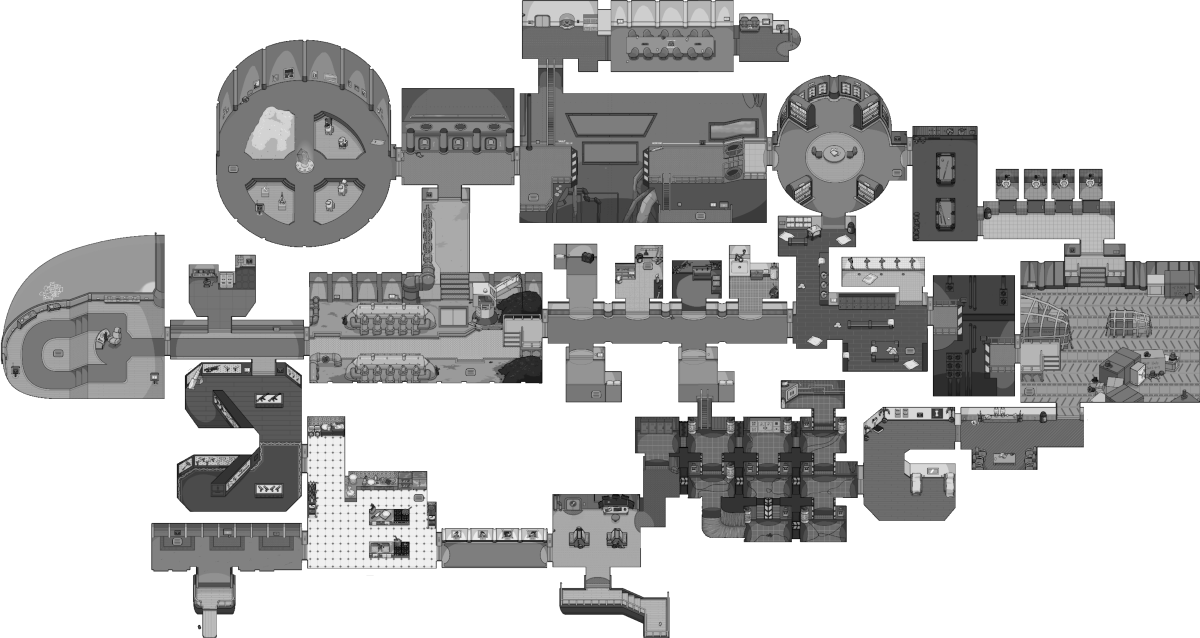
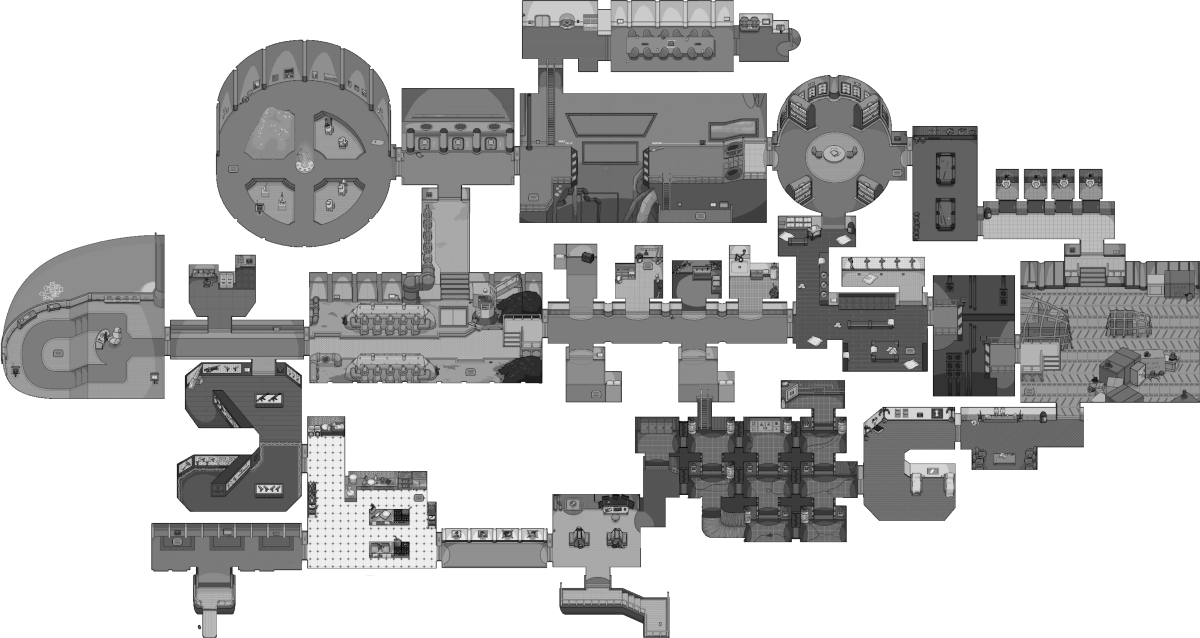
Electrical Door

diff --git a/AmongUsReplayInWindow/Map.cs b/AmongUsReplayInWindow/Map.cs
@@ -12,6 +12,8 @@ namespace AmongUsReplayInWindow
     {
         static string[] mapFilename = new string[5] { "skeld.png", "mira.png", "polus.png", "skeld.png", "airship.png" };
         static public string mapFolder = "color";
+        static Image CloseDoor_h;
+        static Image CloseDoor_v;
         public struct MapScale
         {
             public int Id;
@@ -132,6 +134,36 @@ namespace AmongUsReplayInWindow
             return MapImage;
         }
 
+        static public float[] electricalDoorsPos_xy = new float[2] { 1200, 638 };
+        static public Vector2[] electricalDoorsPos = new Vector2[12] { new Vector2(811, 497), new Vector2(756, 497), new Vector2(811, 453), new Vector2(756, 453),
+                                                                       new Vector2(700, 453), new Vector2(734, 467), new Vector2(791, 467), new Vector2(791, 420),
+                                                                       new Vector2(734, 420), new Vector2(791, 511), new Vector2(678, 420), new Vector2(679, 467), };
+        static public Image[] setDoorImages(int mapId)
+        {
+            if (mapId != 4) return null;
+            string hPath = Program.exeFolder + "\\map\\" + mapFolder + "\\CloseDoor_h.png";
+            string vPath = Program.exeFolder + "\\map\\" + mapFolder + "\\CloseDoor_v.png";
+            if (File.Exists(hPath) && File.Exists(vPath))
+            {
+                Image[] MapImage = new Image[2];
+                try
+                {
+                    using (FileStream stream = File.OpenRead(hPath))
+                        MapImage[0] = Image.FromStream(stream, false, false);
+                    using (FileStream stream = File.OpenRead(vPath))
+                        MapImage[1] = Image.FromStream(stream, false, false);
+                    return MapImage;
+                }
+                catch (Exception e)
+                {
+                    MapImage[0]?.Dispose();
+                    MapImage[1]?.Dispose();
+                    Console.WriteLine(e.Message);
+                    Console.WriteLine(e.StackTrace);
+                }
+            }
+            return null;
+        }
         public class backgroundMap
         {
             static List<backgroundMap> instanceList = new List<backgroundMap>();
@@ -145,10 +177,12 @@ namespace AmongUsReplayInWindow
             Point location;
             Size size;
             bool IsOverlay;
+            uint electricalDoors;
+            Image[] DoorImages = null;
 
             const int SRCCOPY = 0x00CC0020;
 
-            public backgroundMap(Size formClientSize, Point location, Size size, int mapId, bool IsOverlay)
+            public backgroundMap(Size formClientSize, Point location, Size size, int mapId, bool IsOverlay, uint electricalDoors)
             {
                 this.IsOverlay = IsOverlay;
                 instanceList.Add(this);
@@ -156,7 +190,9 @@ namespace AmongUsReplayInWindow
                 this.formClientSize = formClientSize;
                 this.location = location;
                 this.size = size;
+                this.electricalDoors = electricalDoors;
                 MapImage = setMapImage(mapId);
+                DoorImages = setDoorImages(mapId);
                 ChangeSize(formClientSize, location, size);
             }
 
@@ -171,17 +207,29 @@ namespace AmongUsReplayInWindow
                     instanceList.Remove(this);
                 DisposeBitmap();
                 MapImage?.Dispose();
-            }
-            
-            public void ChangeMapId(int mapId, Size formClientSize, Point location, Size size)
-            {
-                if (this.mapId != mapId)
+                if (DoorImages != null)
                 {
-                    this.mapId = mapId;
-                    MapImage?.Dispose();
-                    MapImage = setMapImage(mapId);
-                    ChangeSize(formClientSize, location, size);
+                    DoorImages[0]?.Dispose();
+                    DoorImages[1]?.Dispose();
                 }
+            }
+
+            public bool ChangeMapId(int mapId, Size formClientSize, Point location, Size size, uint electricalDoors)
+            {
+                if (this.mapId == mapId && (mapId != 4 || this.electricalDoors == electricalDoors)) return false;
+                this.electricalDoors = electricalDoors;
+                this.mapId = mapId;
+                MapImage?.Dispose();
+                MapImage = setMapImage(mapId);
+                if (DoorImages != null)
+                {
+                    DoorImages[0]?.Dispose();
+                    DoorImages[1]?.Dispose();
+                    DoorImages = null;
+                }
+                DoorImages = setDoorImages(mapId);
+                ChangeSize(formClientSize, location, size);
+                return true;
             }
 
             public void DisposeBitmap()
@@ -243,6 +291,31 @@ namespace AmongUsReplayInWindow
                         mapGraphics.FillRectangle(brush, 0, 0, w, h);
                 }
                 mapGraphics.DrawImage(MapImage, location.X, location.Y, size.Width, size.Height);
+                if (mapId == 4 && electricalDoors != 0 && DoorImages != null) 
+                {
+                    for(int i = 0; i < 5; i++)
+                    {
+                        if (((electricalDoors >> i) & 1) != 0)
+                        {
+                            var xpos = location.X + Map.electricalDoorsPos[i].X * size.Width / Map.electricalDoorsPos_xy[0];
+                            var ypos = location.Y + Map.electricalDoorsPos[i].Y * size.Height / Map.electricalDoorsPos_xy[1];
+                            var xsize = DoorImages[0].Width * size.Width / Map.electricalDoorsPos_xy[0];
+                            var ysize = DoorImages[0].Height * size.Height / Map.electricalDoorsPos_xy[1];
+                            mapGraphics.DrawImage(DoorImages[0], xpos, ypos, xsize, ysize);
+                        }
+                    }
+                    for (int i = 5; i < 12; i++)
+                    {
+                        if (((electricalDoors >> i) & 1) != 0) 
+                        {
+                            var xpos = location.X + Map.electricalDoorsPos[i].X * size.Width / Map.electricalDoorsPos_xy[0];
+                            var ypos = location.Y + Map.electricalDoorsPos[i].Y * size.Height / Map.electricalDoorsPos_xy[1];
+                            var xsize = DoorImages[1].Width * size.Width / Map.electricalDoorsPos_xy[0];
+                            var ysize = DoorImages[1].Height * size.Height / Map.electricalDoorsPos_xy[1];
+                            mapGraphics.DrawImage(DoorImages[1], xpos, ypos, xsize, ysize);
+                        }
+                    }
+                }
                 mapGraphics.SmoothingMode = smoothing;
                 mapGraphics.InterpolationMode = interpolation;
                 mapGraphics.Dispose();
@@ -256,6 +329,13 @@ namespace AmongUsReplayInWindow
                 {
                     bgmap.MapImage?.Dispose();
                     bgmap.MapImage = setMapImage(bgmap.mapId);
+                    if (bgmap.DoorImages != null)
+                    {
+                        bgmap.DoorImages[0]?.Dispose();
+                        bgmap.DoorImages[1]?.Dispose();
+                        bgmap.DoorImages = null;
+                    }
+                    bgmap.DoorImages = setDoorImages(bgmap.mapId);
                     bgmap.ChangeSize(bgmap.formClientSize, bgmap.location, bgmap.size);
                 }
             }

diff --git a/AmongUsReplayInWindow/OverlayWindow.cs b/AmongUsReplayInWindow/OverlayWindow.cs
@@ -42,6 +42,7 @@ namespace AmongUsReplayInWindow
 
         Map.backgroundMap backgroundMap;
         public int mapId = 0;
+        uint electricalDoors = 0;
 
         public Point mapLocation;
         public Size mapSize;
@@ -121,7 +122,7 @@ namespace AmongUsReplayInWindow
             Paint += new PaintEventHandler(Draw);
             FormClosing += new FormClosingEventHandler(overlay_FormClosing);
             trackwin = new TrackBarWin(this);
-            backgroundMap = new Map.backgroundMap(ClientSize, mapLocation, mapSize, mapId, true);
+            backgroundMap = new Map.backgroundMap(ClientSize, mapLocation, mapSize, mapId, true, electricalDoors);
             drawTimer = new System.Windows.Forms.Timer();
             drawTimer.Interval = startWindow.interval;
             drawTimer.Tick += new EventHandler(DrawTimerHandler);
@@ -186,6 +187,7 @@ namespace AmongUsReplayInWindow
                     return false;
                 }
                 version = logReader.version;
+                electricalDoors = logReader.startArgs.electricalDoors;
                 MapChange((int)logReader.startArgs.PlayMap);
                 discFrames = logReader.discFrames;
                 deadList = logReader.deadList;
@@ -241,6 +243,7 @@ namespace AmongUsReplayInWindow
             Console.WriteLine("game start");
             Playing = true;
             discussionTime = -1000;
+            electricalDoors = startArgs.electricalDoors;
             MapChange((int)startArgs.PlayMap);
             Invoke(new voidDelegate(removeReader));
             writer?.Close();
@@ -392,13 +395,13 @@ namespace AmongUsReplayInWindow
 
         public void MapChange(int newMapId)
         {
-            if (mapId == newMapId) return;
+            if (mapId == newMapId && mapId != 4) return;
             Invoke(new void_intDelegate(delegateMapChange), newMapId);
         }
 
         private void delegateMapChange(int newMapId)
         {
-            if (mapId == newMapId) return;
+            if (mapId == newMapId && mapId != 4) return;
             mapId = newMapId;
             float h = Height * (1 - Map.Maps[mapId].ypad);
             float w = Width * (1 - Map.Maps[mapId].xpad);
@@ -413,8 +416,8 @@ namespace AmongUsReplayInWindow
             }
             mapLocation = new Point((int)((Width - w) * 0.5), (int)((Height - h) * 0.5));
             mapSize = new Size((int)w, (int)h);
-            backgroundMap.ChangeMapId(mapId, ClientSize, mapLocation, mapSize);
-            Invalidate();
+            if (backgroundMap.ChangeMapId(mapId, ClientSize, mapLocation, mapSize, electricalDoors))
+                Invalidate();
         }
         private void Draw(object sender, PaintEventArgs paint)
         {

diff --git a/AmongUsReplayInWindow/amonguscapture/Memory/GameMemReader.cs b/AmongUsReplayInWindow/amonguscapture/Memory/GameMemReader.cs
@@ -1147,6 +1147,11 @@ namespace AmongUsCapture
                             LobbyCode = split[1];
                             Console.WriteLine("Code:" + LobbyCode);
                             shouldReadLobby = false;
+                            if (ReadSpace.ExistReadSpace)
+                            {
+                                uint oldDoor;
+                                ReadSpace.getElectricalDoors(out oldDoor);
+                            }
                         }
                     }
 
@@ -1269,6 +1274,8 @@ namespace AmongUsCapture
             uint[] HatIds = new uint[PlayerData.MaxPlayerNum];
             uint[] PetIds = new uint[PlayerData.MaxPlayerNum];
             uint[] SkinIds = new uint[PlayerData.MaxPlayerNum];
+            uint electricalDoors = 0;
+            bool doorOk = false;
 
             while (!dataCompleted)
             {
@@ -1361,6 +1368,16 @@ namespace AmongUsCapture
                 if (ReadSpace.ExistReadSpace)
                 {
                     ReadSpace.getReadSpace(ref Reporter, ref ReportTarget, ref CameraOn, in IdList);
+                    if (playMap == PlayerData.PlayMap.AirShip)
+                    {
+                        int count = 0;
+                        while (!ReadSpace.getElectricalDoors(out electricalDoors) && count < 300 && !doorOk)
+                        {
+                            count++;
+                            Thread.Sleep(100);
+                        }
+                        doorOk = true;
+                    }
                 }
                 if (!dataCompleted)
                 {
@@ -1421,7 +1438,8 @@ namespace AmongUsCapture
                 HatIds = HatIds,
                 PetIds = PetIds,
                 SkinIds =SkinIds,
-                RoleType = RoleType
+                RoleType = RoleType,
+                electricalDoors = electricalDoors
         }) ;
 
 
@@ -1503,6 +1521,7 @@ namespace AmongUsCapture
         public uint[] SkinIds;
 
         public RoleTypes[] RoleType;
+        public uint electricalDoors;
     }
 
 

diff --git a/AmongUsReplayInWindow/amonguscapture/Memory/ReadSpace.cs b/AmongUsReplayInWindow/amonguscapture/Memory/ReadSpace.cs
@@ -14,6 +14,7 @@ namespace AmongUsCapture
         static byte MeetingNum = 0;
         static int ChatNum = 0;
         static int ReadChatNum = 0;
+        static byte ElectricalDoorCount = 0;
         public static bool chatExist { get { return ChatNum != ReadChatNum; } }
 
 
@@ -25,6 +26,17 @@ namespace AmongUsCapture
             [FieldOffset(0x02)] public sbyte Target; 
             [FieldOffset(0x03)] public byte ChatNum; 
             [FieldOffset(0x04)] public bool CameraOn; 
+        }
+        public static bool getElectricalDoors(out uint doors)
+        {
+            doors = 0;
+            var bytes = ProcessMemory.getInstance().ReadByteArray(readSpacePtr + 0x1E18, 4);
+            if (ElectricalDoorCount == bytes[3]) return false;
+            ElectricalDoorCount = bytes[3];
+            bytes[3] = 0;
+            doors = BitConverter.ToUInt32(bytes);
+            Console.WriteLine(doors.ToString());
+            return true;
         }
 
         public static bool getReadSpace(ref int reporter, ref int target, ref bool CameraOn, in int[] IdList)

diff --git a/AmongUsReplayInWindow/MoveLogFile.cs b/AmongUsReplayInWindow/MoveLogFile.cs
@@ -171,6 +171,7 @@ namespace AmongUsReplayInWindow
                     {
                         writer.Write((Int32)version);
                         writer.Write((Int32)startArgs.PlayMap);
+                        writer.Write((UInt32)startArgs.electricalDoors);
                         writer.Write((Int32)startArgs.PlayerMove.PlayerNum);
                         writer.Write((Int32)startArgs.PlayerMove.myId);
                         writer.Write((Int32)AllImposorNum);
@@ -286,6 +287,7 @@ namespace AmongUsReplayInWindow
 
                     version = reader.ReadInt32();
                     startArgs.PlayMap = (PlayerData.PlayMap)reader.ReadInt32();
+                    if (version >= 4) startArgs.electricalDoors = reader.ReadUInt32();
                     PlayerNum = reader.ReadInt32();
                     e.myId = reader.ReadInt32();
                     AllImposorNum = reader.ReadInt32();

diff --git a/AmongUsReplayInWindow/fromFile.cs b/AmongUsReplayInWindow/fromFile.cs
@@ -26,6 +26,7 @@ namespace AmongUsReplayInWindow
         float hw = 1;
         public Point mapLocation;
         public Size mapSize;
+        uint electricalDoors = 0;
 
 
         public PlayerMoveArgs e = null;
@@ -135,9 +136,10 @@ namespace AmongUsReplayInWindow
                 }
                 version = logReader.version;
                 mapId = (int)logReader.startArgs.PlayMap;
+                electricalDoors = logReader.startArgs.electricalDoors;
                 hw = Map.Maps[mapId].hw;
                 SizeChangedHandler(null, null);
-                backgroundMap = new Map.backgroundMap(ClientSize, mapLocation, mapSize, mapId,false);
+                backgroundMap = new Map.backgroundMap(ClientSize, mapLocation, mapSize, mapId, false, electricalDoors);
                 Invalidate();
                 discFrames = logReader.discFrames;
                 deadList = logReader.deadList;
